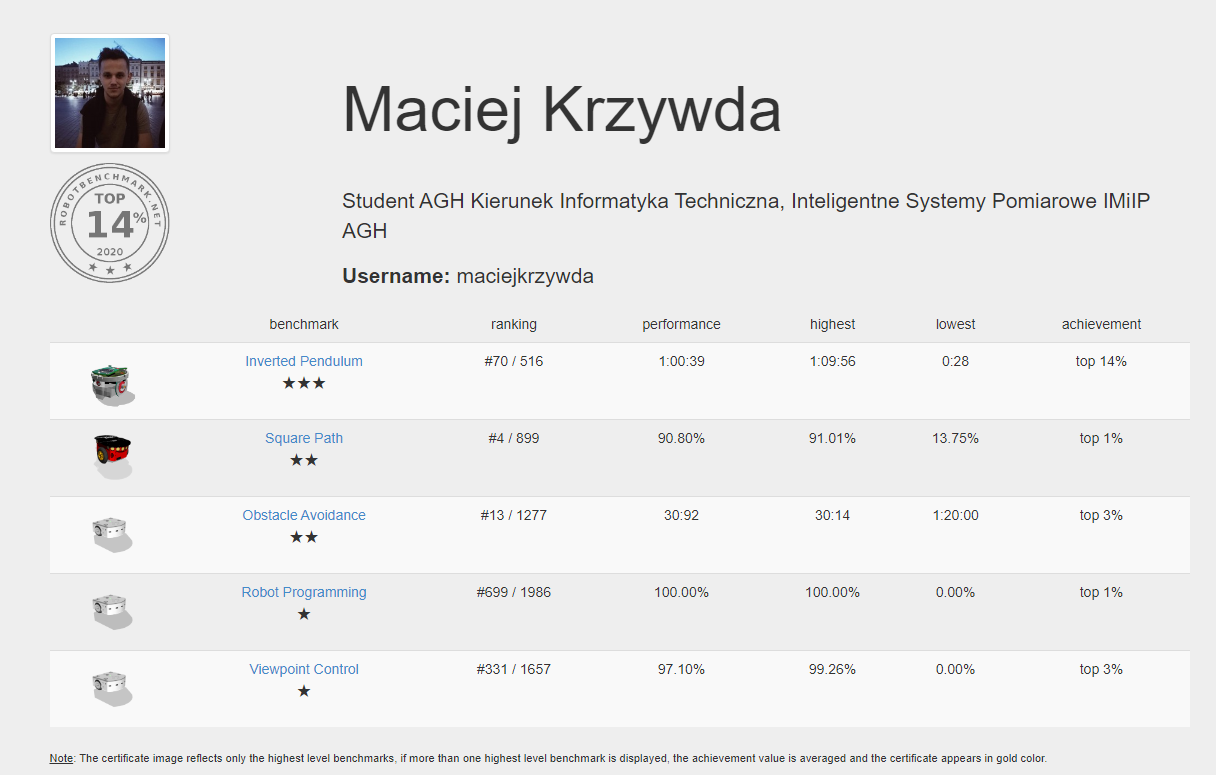
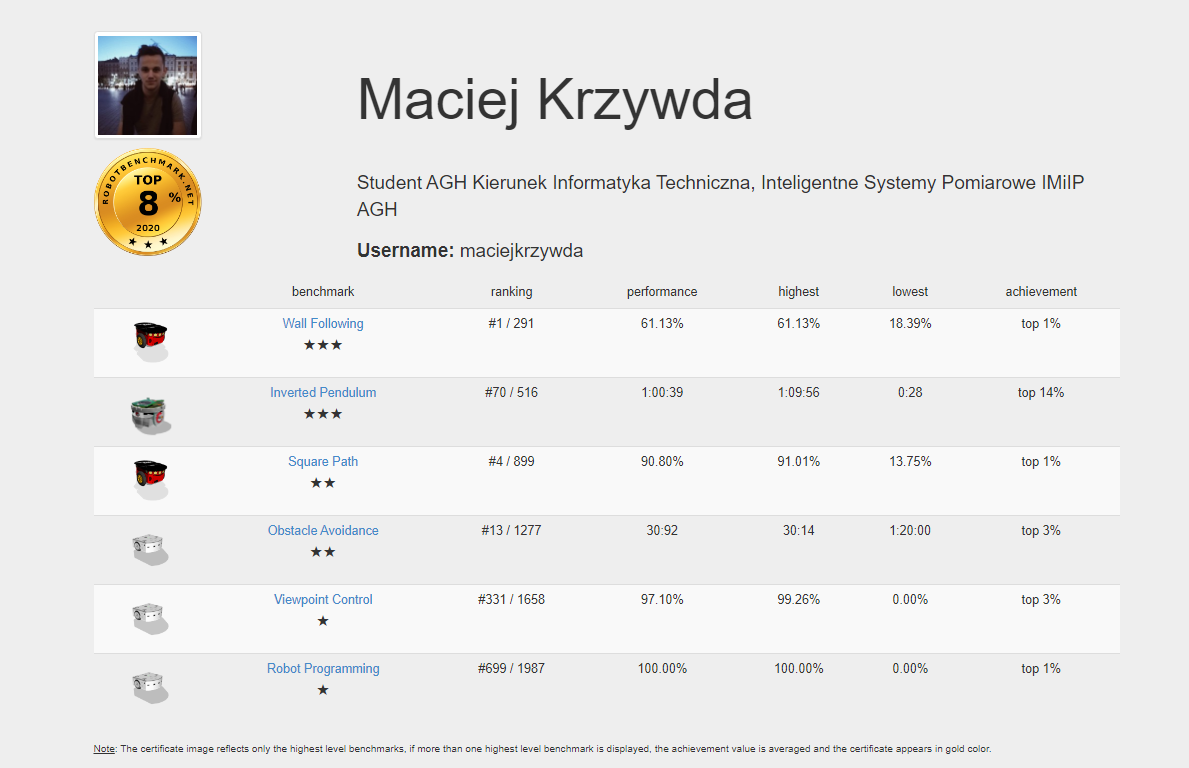
Update README and overall after beat world records for Wall Following

diff --git a/README.md b/README.md
@@ -16,10 +16,11 @@
 * Obstacle Avoidance (★★) - Program a Thymio II robot to cross a classroom filled with obstacles as quickly as possible.
 * Square Path (★★) Program a Pioneer 3-DX robot to follow a 2m x 2m square trajectory, quickly and precisely
 * Inverted Pendulum (★★★)	Program an e-puck robot to maintain an inverted pendulum up as long as possible. - To improve (after 1 minutes set new params and run.)
+* Wall Following (★★★) Program a Pioneer 3-DX robot to follow a random wall on its left-hand side, quickly and precisely.	- WORLD RECORDS - Simple cheat: Change Maximum speed for the velocity value of the wheels from 5.24 to 6.0. But works good when set as default but must decrease/increase value in multpiler for MAX_SPEED and -MAX_SPEED.
+
 
 ## TO DO ##
 
 * Pick And Place (★★★) Program a youBot mobile manipulator robot to pick and place a cube as quickly as possible.	
 * Pit Escape (★★★) Program a BB-8 robot lost in a sand desert to climb out of a pit as quickly as possible.	
-* Wall Following (★★★) Program a Pioneer 3-DX robot to follow a random wall on its left-hand side, quickly and precisely.	
 * Highway Driving (★★★★) Program a Lincoln MKZ autonomous car to drive as fast as possible on a crowded highway.
